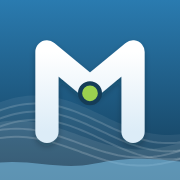
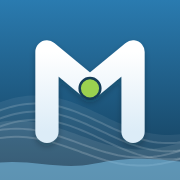
Ícone M: círculo encaixado no bico do M

Changed region(s): [[0.4167, 0.4167, 0.5833, 0.5833]]

diff --git a/src/components/Logo.tsx b/src/components/Logo.tsx
@@ -20,7 +20,7 @@ export function LogoMark({ className = 'h-9 w-9', onDark = false }: { className?
 <path d="M48 150V54L100 97" fill="none" stroke="url(#rm-gv)" strokeWidth="28" strokeLinecap="round" strokeLinejoin="round"/>
 <path d="M100 97L152 54V150" fill="none" stroke="url(#rm-rv)" strokeWidth="28" strokeLinecap="round" strokeLinejoin="round"/>
 </g>
-<circle cx="100" cy="104" r="12" fill="#9bd14f" stroke="#143c57" strokeWidth="5"/>
+<circle cx="100" cy="98" r="12.5" fill="#9bd14f" stroke="#143c57" strokeWidth="3"/>
 
     </svg>
   )
